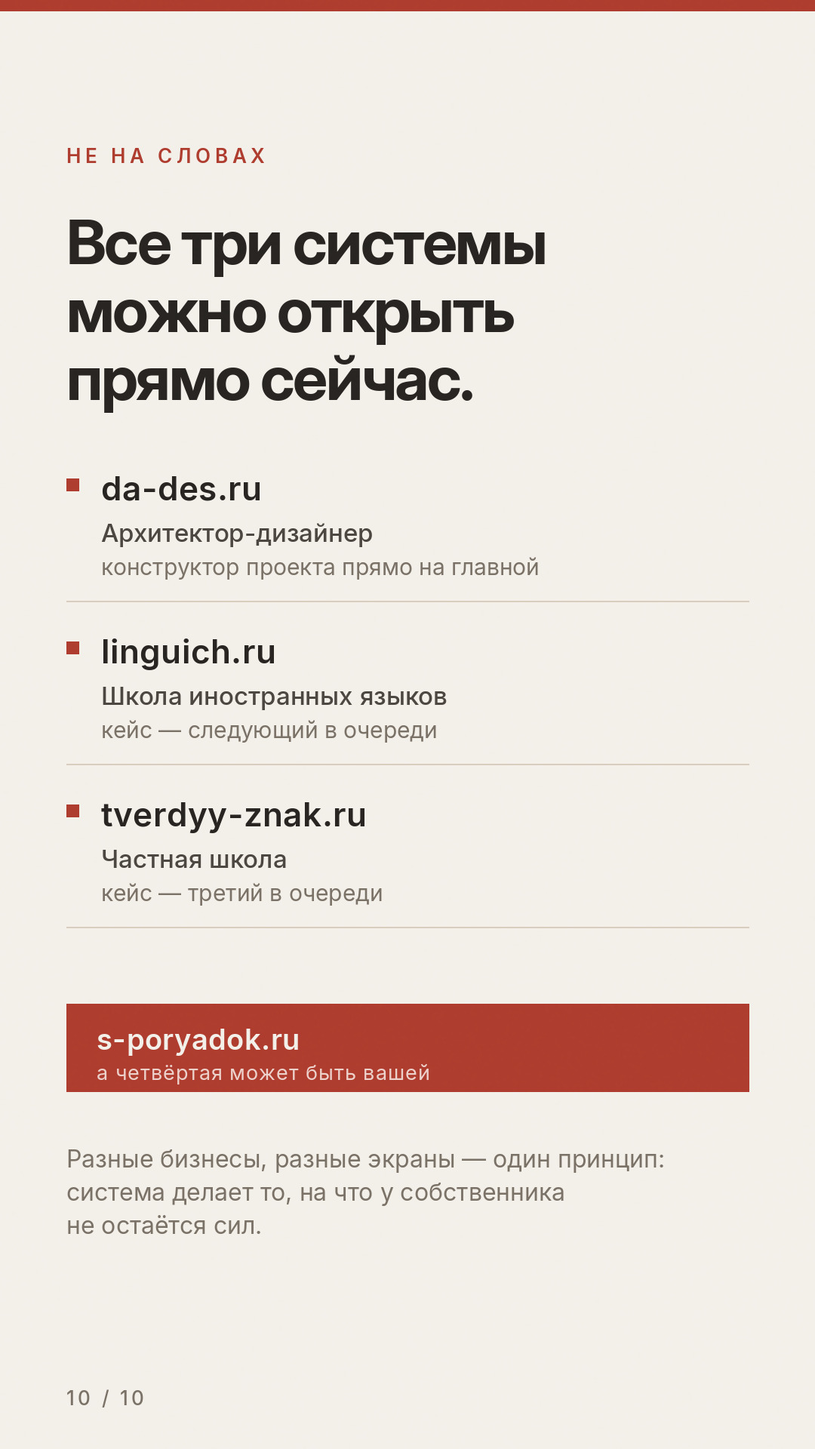
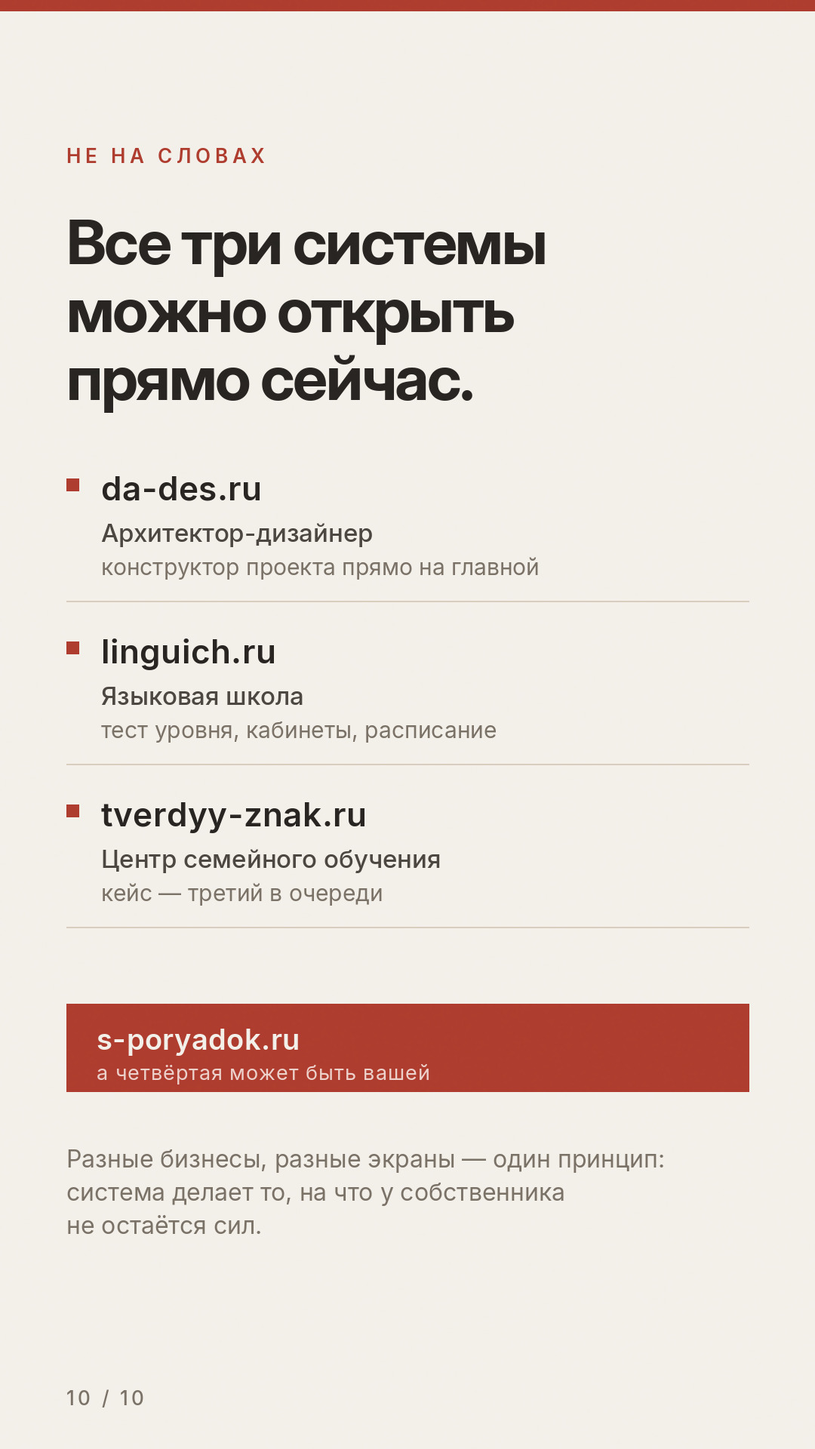
Подписи систем — из их репозиториев, а не из головы
Прочитал Linguich_site, tverdyy_znak и poryadok-landing вместо того,
чтобы угадывать. Три вещи изменились по факту.

«Твёрдый знак» больше не назван частной школой. У организации нет
образовательной лицензии, и слово «школа» о себе ей запрещено —
только «центр семейного обучения и профориентации». Это ограничение
из README того проекта, и на промо оно распространяется ровно так же,
как на его собственный сайт: пост про клиента — такой же текст о нём.
Там же лежит запрет на гарантии результата, он записан в план кейса.

«Лингвич» перестал быть просто «школой иностранных языков»: это
платформа с кабинетами, CRM и адаптивным тестом уровня. Тест вынесен
в подпись как крючок — его можно пройти прямо сейчас, ничего не
оставляя, а всё, что трогается без регистрации, работает в промо
лучше скриншота.

План второго и третьего кейса переписан на настоящий материал:
телефонное «когда можно?» у Лингвича, открытая цена и стобалльная
шкала у Твёрдого знака.

Отдельно записано, откуда взялась убранная сумма потерь: оценка
считается от «чек × клиентов в месяц», а меньший вариант ответа —
«до двадцати» с серединой 12. На проектном бизнесе с несколькими
клиентами в год база завышается примерно в пятнадцать раз.

Claude-Session: https://claude.ai/code/session_01PW735Z2KYFykvmKHJc4ehd

Changed region(s): [[0.1222, 0.4688, 0.6111, 0.5312], [0.1833, 0.5625, 0.3667, 0.625]]

diff --git a/marketing/make_assets.py b/marketing/make_assets.py
@@ -213,10 +213,19 @@ TVERDYY = "tverdyy-znak.ru"     # частная школа
 
 # Порядок витрины: сначала та система, про которую только что был кейс,
 # остальные следом. Человек идёт по ссылке, которую ему уже объяснили.
+#
+# «Твёрдый знак» назван центром семейного обучения, а не школой, и это
+# не стилистика: у организации нет образовательной лицензии, и слово
+# «школа» о себе ей запрещено (см. README того проекта, раздел
+# «Критические ограничения»). Промо — такой же текст о клиенте, как
+# и его сайт, и подставлять его под это слово нельзя.
+#
+# Если лендинг «Твёрдого знака» ещё не выкачен целиком — уберите третью
+# строку. Ссылка на недоделанную страницу стоит дороже, чем её отсутствие.
 SYSTEMS = [
     (DARYA, "Архитектор-дизайнер", "конструктор проекта прямо на главной"),
-    (LINGUICH, "Школа иностранных языков", "кейс — следующий в очереди"),
-    (TVERDYY, "Частная школа", "кейс — третий в очереди"),
+    (LINGUICH, "Языковая школа", "тест уровня, кабинеты, расписание"),
+    (TVERDYY, "Центр семейного обучения", "кейс — третий в очереди"),
 ]
 
 
@@ -495,7 +504,7 @@ def story_09_cta():
     y += 26
     rule(d, M, y, 96, BRAND, h=5)
     y += 40
-    block(d, "Архитектор. Школа иностранных языков.\nЧастная школа. Один принцип: система\nработает вместо вас.",
+    block(d, "Архитектор. Языковая школа. Центр\nсемейного обучения. Один принцип:\nсистема работает вместо вас.",
           font(T_REG, 34), (M, y, 1080 - 2 * M), INK_2, leading=1.42, tag="s9-t")
 
     link_band(d, 1560, SITE, "разбор бизнеса и тест на потери")
@@ -629,7 +638,7 @@ def card_09_final():
 
     rule(d, CM, 758, CW, (62, 56, 51))
 
-    y = block(d, "Три системы собраны: архитектор,\nшкола языков, частная школа.",
+    y = block(d, "Три системы собраны: архитектор,\nязыковая школа, центр обучения.",
               font(D_SEMI, 46), (CM, 812, CW), PAPER, leading=1.2, tracking=-1.2, tag="fin-h")
     y += 26
     block(d, "Разные бизнесы — один принцип: система делает\nто, на что у собственника не остаётся сил.",

diff --git a/marketing/03-план-запуска.md b/marketing/03-план-запуска.md
@@ -31,7 +31,7 @@
 |---|---|
 | **Пн** | Пост 5 — кому подходит и кому нет |
 | **Ср** | Сторис: одна деталь системы крупным планом (срок в рабочих часах) |
-| **Пт** | Анонс второго кейса — школа иностранных языков |
+| **Пт** | Анонс второго кейса — языковая школа «Лингвич» |
 
 ---
 
@@ -66,18 +66,68 @@
 5. Вывод, который шире кейса. Тот, который хочется пересказать.
 6. Один призыв. Одно слово.
 
-**Школа иностранных языков «Линвич».** Что искать в разборе: как
-устроена запись на пробное, что происходит с учеником между «оставил
-заявку» и «пришёл на урок», кто теряется на этом отрезке и сколько
-это стоит в деньгах за учебный год. Расписание и замены преподавателей —
-второй по силе сюжет: там боль видна невооружённым глазом.
+**Языковая школа «Лингвич» (`linguich.ru`).** Тут не лендинг, а платформа:
+публичный сайт, кабинеты ученика и преподавателя, CRM владелицы, адаптивный
+тест уровня. Материал для кейса лежит в `PRODUCT.md` того репозитория,
+и он богатый.
 
-**Частная школа «Твёрдый знак».** Здесь другой покупатель: решение
-принимает родитель, и решает он не про цену, а про спокойствие.
-Сюжет искать в том, что родитель знает о своём ребёнке в течение
-дня и как он это узнаёт. Приём и зачисление — второй сюжет.
+Что брать в первую очередь:
 
-**Порядок публикации:** архитектор → школа языков → частная школа.
+- **Телефонный вопрос «когда можно?»** — главный рабочий сценарий
+  администратора. На него отвечает недельная сетка занятости всех
+  преподавателей сразу, клик по свободному окну открывает запись
+  с подставленными временем и преподавателем. Это готовая пара
+  «было → стало», понятная любому, кто хоть раз записывался куда-нибудь
+  по телефону.
+- **Индивидуальное занятие — это группа на одного.** Одно решение, из-за
+  которого расписание, домашки и списания работают одним кодом. Такие
+  вещи и отличают систему от сайта.
+- **Деньги двумя независимыми счётчиками**: долг и остаток занятий.
+  Родитель в любой момент видит, что оплачено и что списано.
+- **Позиционирование владелицы.** Евгения жила и училась в Китае и США,
+  преподавала в китайском университете. Соседняя школа может завести
+  такой же каталог курсов, но не может повторить эту биографию. В кейсе
+  это идёт отдельным блоком: система не заменяет человека, она
+  освобождает ему место.
+
+Крючок для витрины и сторис — **тест уровня**: его можно пройти прямо
+сейчас, ничего не оставляя. Всё, что можно потрогать без регистрации,
+работает в промо лучше любого скриншота.
+
+**Центр семейного обучения «Ъ Твёрдый знак» (`tverdyy-znak.ru`).**
+Здесь другой покупатель: решает родитель 38+, у которого подросток
+8–11 класса ушёл на самообразование или готовится к ОГЭ/ЕГЭ
+с несколькими репетиторами. Решает он не про цену, а про спокойствие.
+
+**Прежде чем писать хоть строчку — прочитать «Критические ограничения»
+в README того проекта.** Там есть вещи, за которые прилетает не от
+маркетолога, а от закона:
+
+- у организации **нет образовательной лицензии**, поэтому слово «школа»
+  о себе запрещено везде — только «центр семейного обучения
+  и профориентации» или «семейный класс»;
+- **никаких гарантий результата** — ни «сдадим на 90+», ни «поднимем
+  балл», ни «гарантируем поступление»;
+- **не противопоставлять себя государственным школам**;
+- тон — партнёрство с родителем, а не сервисный масс-маркет
+  («доверьте нам ребёнка» — нельзя).
+
+Эти ограничения распространяются и на промо: пост про клиента —
+такой же текст о нём, как и его сайт.
+
+Сюжет кейса лежит на поверхности: **цена 70 000 ₽/мес стоит открыто
+на первом экране**, и это редкость. Плюс живая 100-балльная шкала,
+которую родитель тянет и видит, куда уходит фокус наставника.
+Интерактив, объясняющий вместо текста, — та же идея, что комната
+из кубиков у Дарьи. Это и есть общая мысль всех трёх кейсов.
+
+**Внимание: по состоянию репозитория лендинг ещё не собран** — отрисован
+первый экран, остальные одиннадцать блоков в задачах не закрыты. Пока это
+так, ссылку на `tverdyy-znak.ru` из витрины лучше убрать, а кейс
+не анонсировать. Ссылка на недоделанную страницу стоит дороже,
+чем её отсутствие: человек решает, что и системы такие же.
+
+**Порядок публикации:** архитектор → языковая школа → центр обучения.
 Он уже обещан подписями на витрине («кейс — следующий в очереди»),
 так что менять его теперь дороже, чем кажется: обещание в сторис
 люди запоминают лучше, чем вы думаете.

diff --git a/marketing/README.md b/marketing/README.md
@@ -28,7 +28,7 @@
 за три секунды: в нём слишком гладко. Цифр потерь в материалах нет
 намеренно — см. пункт 2 ниже.
 
-## Три вещи, которые надо сделать до публикации
+## Пять вещей, которые надо сделать до публикации
 
 1. **Спросить у Дарьи разрешение.** Это её слова, её цифры и её бизнес.
    Одно сообщение: «выкладываю кейс, имя оставляю, фамилию и контакты нет,
@@ -46,26 +46,40 @@
 
 3. **Открыть все четыре ссылки своими глазами.** В материалах стоят
    `s-poryadok.ru` (сайт и тест на потери), `da-des.ru`, `linguich.ru`
-   и `tverdyy-znak.ru`. Из среды сборки они не открываются — сюда
-   закрыт внешний доступ, — так что живость каждой я не проверял.
+   и `tverdyy-znak.ru`. Из среды сборки внешние адреса не открываются —
+   сюда закрыт исходящий доступ, — так что живость каждого я не проверял.
    Мёртвая ссылка в промо стоит дороже, чем её отсутствие: человек
    решает, что и системы такие же.
 
-   Подписи под двумя адресами намеренно нейтральные — «школа
-   иностранных языков», «частная школа». Я не видел эти сайты
-   и не стал придумывать, что там внутри. Когда посмотрите сами,
-   замените на одну конкретную строчку у каждого: то, ради чего
-   стоит зайти. `SYSTEMS` в начале `make_assets.py`, пересборка —
-   одна команда.
+   Подписи под адресами взяты **из репозиториев этих проектов**, а не
+   выдуманы: `da-des.ru` — конструктор на главной, `linguich.ru` —
+   тест уровня, кабинеты и расписание (`PRODUCT.md` того проекта),
+   `tverdyy-znak.ru` — центр семейного обучения и профориентации.
 
-   Плашки на картинках некликабельны — они для тех, кто наберёт руками;
-   для нажатия нужен стикер-ссылка в сторис или ссылка в шапке профиля.
+4. **«Твёрдый знак» — не «школа». Это не стилистика.** У организации нет
+   образовательной лицензии, и слово «школа» о себе ей запрещено:
+   только «центр семейного обучения и профориентации» или «семейный
+   класс» (README того проекта, раздел «Критические ограничения»).
+   Там же запрет на гарантии результата и на противопоставление
+   государственным школам. Пост про клиента — такой же текст о нём,
+   как и его сайт, и подставлять его под это слово нельзя.
 
-## Что в материалах намеренно не показано
+   **По состоянию репозитория его лендинг ещё не собран:** отрисован
+   первый экран, остальные одиннадцать блоков в задачах не закрыты.
+   Пока это так, третью строку в `SYSTEMS` (начало `make_assets.py`)
+   лучше убрать и пересобрать картинки.
 
-Имя есть, фамилии нет. ИНН, телефона и адресов нет нигде — ни в текстах,
-ни на картинках. Скриншоты кабинета в пакет не вошли: там живые заказчики,
-и прежде чем показывать интерфейс, его надо заполнить демо-данными.
+5. **Тест на потери на `s-poryadok.ru` завышает цифру на проектном
+   бизнесе.** Оценка считается от `средний чек × клиентов в месяц`,
+   а самый маленький вариант ответа про клиентов — «до двадцати»
+   с серединой 12. У архитектора, у которого несколько проектов
+   **в год**, база выручки завышается примерно в пятнадцать раз,
+   и вместе с ней — все потери. Отсюда и взялась та самая цифра,
+   которую пришлось убрать из промо. Подробности и что править —
+   `landing/survey.py`, функция `estimate` и вопрос `clients`.
+
+   Промо гонит трафик именно на этот тест, поэтому чинить его стоит
+   до публикации, а не после.
 
 ---
 

diff --git a/marketing/02-посты-дарья.md b/marketing/02-посты-дарья.md
@@ -96,8 +96,8 @@
 >
 > ---
 >
-> У меня три собранные системы: архитектор, школа иностранных языков
-> и частная школа. Три разных бизнеса — один принцип.
+> У меня три собранные системы: архитектор, языковая школа
+> и центр семейного обучения. Три разных бизнеса — один принцип.
 >
 > Если узнали в тексте свою неделю — напишите мне слово «система».
 > Разберу ваш случай и скажу честно, нужна ли она вам вообще.
@@ -110,8 +110,10 @@
 >
 > **da-des.ru** — архитектор-дизайнер, кейс выше. Живая, можно
 > потрогать конструктор.
-> **linguich.ru** — школа иностранных языков. Кейс следующий.
-> **tverdyy-znak.ru** — частная школа. Кейс третий.
+> **linguich.ru** — языковая школа: тест уровня, кабинеты ученика
+> и преподавателя, CRM. Кейс следующий.
+> **tverdyy-znak.ru** — центр семейного обучения и профориентации.
+> Кейс третий.
 
 ---
 
@@ -146,8 +148,8 @@
 > Систему покупают не ради экономии времени. Её покупают, чтобы бизнес
 > не зависел от того, выспались вы или нет.
 >
-> У меня три таких системы: архитектор, школа языков, частная школа.
-> Четвёртая может быть вашей.
+> У меня три таких системы: архитектор, языковая школа, центр
+> семейного обучения. Четвёртая может быть вашей.
 >
 > **Напишите слово «система» в комментариях или в директ** — разберу
 > ваш случай.
@@ -218,8 +220,8 @@
 > «Заявки теряются» — не черта характера. Это состояние системы,
 > которое можно сделать технически невозможным.
 >
-> У меня три собранные системы: архитектор, школа иностранных языков,
-> частная школа. Разные бизнесы — один принцип: система делает то,
+> У меня три собранные системы: архитектор, языковая школа,
+> центр семейного обучения. Разные бизнесы — один принцип: система делает то,
 > на что у собственника не остаётся сил.
 >
 > **Напишите в комментариях слово «система»** — разберу ваш случай
@@ -229,8 +231,8 @@
 >
 > Три собранные системы, можно открыть прямо сейчас:
 > https://da-des.ru — архитектор-дизайнер, кейс выше
-> https://linguich.ru — школа иностранных языков
-> https://tverdyy-znak.ru — частная школа
+> https://linguich.ru — языковая школа, тест уровня и кабинеты
+> https://tverdyy-znak.ru — центр семейного обучения
 
 ---
 
@@ -306,8 +308,8 @@
 > не даёт потерять заявку, кабинет клиента, договоры, счета.
 > Столько, сколько нужно именно вам — не пакетом.
 >
-> Три системы уже собраны: архитектор, школа иностранных языков,
-> частная школа.
+> Три системы уже собраны: архитектор, языковая школа,
+> центр семейного обучения.
 >
 > **Напишите слово «система»** — начнём с разбора.
 >

diff --git a/marketing/01-сторис-дарья.md b/marketing/01-сторис-дарья.md
@@ -153,8 +153,8 @@
 
 > **Все три системы можно открыть прямо сейчас.**
 > da-des.ru — архитектор-дизайнер
-> linguich.ru — школа иностранных языков
-> tverdyy-znak.ru — частная школа
+> linguich.ru — языковая школа
+> tverdyy-znak.ru — центр семейного обучения
 
 **Зачем.** «У меня три системы» — это слова. Три работающих адреса —
 это факт. Кадр стоит после предложения намеренно: сначала человек решает,
